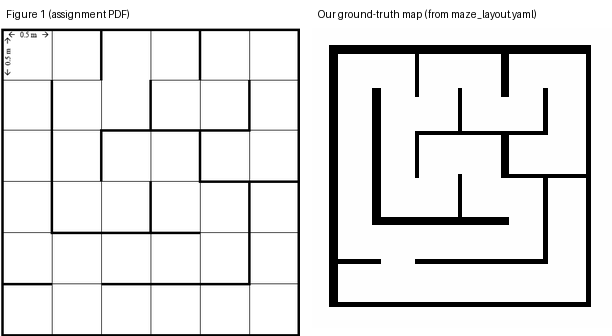
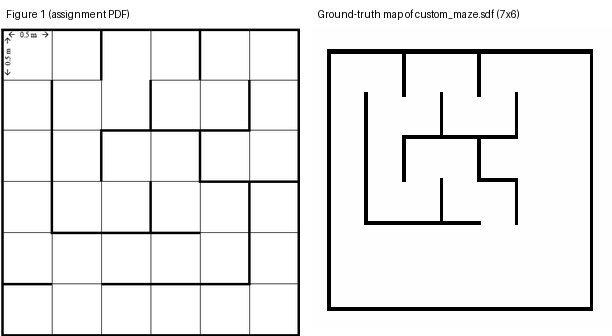
report: current-maze report with member names/IDs, regenerated figures, corrected numbers; PENDING markers for runs not yet done; member docs: names/IDs, spawn offset

Changed region(s): [[0.5278, 0.119, 0.9935, 0.9226], [0.5278, 0.0298, 0.9003, 0.0595]]

diff --git a/tools/make_report_figures.py b/tools/make_report_figures.py
@@ -37,10 +37,10 @@ def main():
     fig1 = Image.open(ROOT / "docs/figure1_from_assignment.png")
     side = 300
     row([panel(fig1, (side, round(side * fig1.height / fig1.width)), "Figure 1 (assignment PDF)", smooth=True),
-         panel(gt, (side, side), "Our ground-truth map (from custom_maze.sdf)")], OUT / "fig_maze.png")
+         panel(gt, (side, side), "Ground-truth map of custom_maze.sdf (7x6)")], OUT / "fig_maze.png")
     row([panel(gt, (side, side), "Ground truth"),
          panel(slam, (side, round(side * slam.height / slam.width)),
-               "SLAM Toolbox map, last VM run (FAIL)")], OUT / "fig_slam.png")
+               "SLAM Toolbox map, current maze (precision 0.819)")], OUT / "fig_slam.png")
     print("wrote", OUT / "fig_maze.png", OUT / "fig_slam.png")
 
 

diff --git a/docs/report.md b/docs/report.md
@@ -5,29 +5,27 @@
 | | |
 |---|---|
 | GitHub repository | https://github.com/AseshNemal/ros2-autonomous-maze-navigation (branch `dev-integration`) |
-| Group members / contributions | see the table below and `docs/OWNERSHIP.md` |
-| Environment | Ubuntu 24.04 (ARM64 VM, 4 CPUs, 3 GB RAM), ROS 2 Jazzy, Gazebo Harmonic, Nav2, SLAM Toolbox |
+| Environment | Ubuntu 24.04 (ARM64 VM), ROS 2 Jazzy, Gazebo Harmonic, Nav2, SLAM Toolbox |
 
-| Member (GitHub user) | Package | Contribution |
-|---|---|---|
-| Member 1 - JayangaWeerasinghe | `maze_simulation` | environment-versions document, test-map assets, optional prototype world `custom_maze` (3 commits on `main`) |
-| Member 2 - dhanushka403 | `slam_mapping` | partial prototype map `test_map` (1 commit, PR #1) |
-| Member 3 - RavinduYashas | `maze_navigation` | Nav2 parameters, launch file, RViz layout, goal evaluator (7 commits, PR #2) |
-| Member 4 - AseshNemal | `dqn_agent` | NumPy Double DQN, environment, training/evaluation/comparison, Stage-1 trial (2 commits, PR #3) |
-| Integration - AseshNemal (AI-assisted, labelled as such) | all four | Figure-1 maze generator and world, bridge/spawn, watchdog, SLAM tour and validation, Nav2 fixes, three-goal script, VM verification scripts, DQN maze adaptation |
+| Member | Student ID | Name | Package / responsibility |
+|---|---|---|---|
+| Member 1 | IT22273680 | Weerasinghe KGJP | `maze_simulation` - maze environment and simulation (`custom_maze.sdf`, `generate_maze.py`) |
+| Member 2 | IT23367562 | Lakshitha W G D | `slam_mapping` - mapping and localisation |
+| Member 3 | IT23185470 | Yashas S.P.R | `maze_navigation` - Nav2 navigation and evaluation |
+| Member 4 | IT23236264 | Nemal L A | `dqn_agent` - Deep Q-learning |
 
-Student names and IDs are to be added on the submitted cover page. Original teammate commits are preserved unmodified in the Git history; `docs/OWNERSHIP.md` separates them from the integration work.
+Integration work (launch wrapper and command watchdog, layout reader, SLAM tour and validation, Nav2 fixes, VM verification scripts, DQN adaptation to the maze) was done by Member 4's GitHub account with AI assistance, and is labelled as such in `docs/OWNERSHIP.md`, which also separates the original teammate commits from the integration commits.
 
-> **Honesty note.** Every number in this report comes from a recorded run in `docs/results/vm/` (current maze) or `docs/results/old_6x6_maze/` (previous maze, labelled) (command, date and log are in that folder). Where a requirement was not met, the report says so. Items marked **NOT MEASURED** have no data yet.
+> **Honesty note.** Numbers marked as measured come from recorded runs on the Ubuntu VM, stored in `docs/results/vm/` (current maze), `docs/results/old_6x6_maze/` (previous maze, labelled) or, for the offline analyses, `docs/cloud_checks/` (labelled as not Gazebo). Anything not yet run is marked **PENDING**. Where a requirement is not met, the report says so.
 
 ## 1. Introduction and system overview
 
-The robot is a TurtleBot3 Burger with a 360-beam LiDAR (3.5 m range, about 5 Hz in our VM). It must reach goals clicked in RViz inside the maze of Figure 1 of the brief, with minimal travel time and without collisions. The project has four ROS 2 packages, one per team member:
+The robot is a TurtleBot3 Burger with a 360-beam LiDAR (3.5 m range, about 5 Hz in our VM). It must reach goals clicked in RViz inside the maze, with minimal travel time and without collisions. Four ROS 2 packages, one per member:
 
 | Package | Role |
 |---|---|
-| `maze_simulation` | Gazebo world generated from the maze layout, TurtleBot3 spawn, `ros_gz_bridge`, dead-man command watchdog, verification scripts |
-| `slam_mapping` | SLAM Toolbox mapping, map saving, map validation against the layout, AMCL localisation, mapping driver |
+| `maze_simulation` | Gazebo world (`worlds/custom_maze.sdf`), TurtleBot3 spawn, `ros_gz_bridge`, dead-man `/cmd_vel` watchdog, layout reader `maze_tools.py`, verification scripts |
+| `slam_mapping` | SLAM Toolbox mapping, map saving, map validation against the world, AMCL localisation, coverage-tour mapping driver |
 | `maze_navigation` | Nav2 (NavFn A\* planner + Regulated Pure Pursuit controller), RViz configuration, three-goal metric script |
 | `dqn_agent` | Double DQN (NumPy), training, evaluation and comparison with Nav2 |
 
@@ -35,117 +33,73 @@ Nav2 and DQN are alternative controllers of the same robot; they are never run t
 
 ## 2. Maze design
 
-The maze layout is the Figure 1 approximation from the simulation team member (JayangaWeerasinghe, branch `main`, `generate_maze.py`): a 7 x 6 grid of 0.5 m cells (3.5 m x 3.0 m, outer walls x -0.5..3.0, y -0.5..2.5) with thin 0.01 m, 0.2 m high walls. The Gazebo world is main's `worlds/custom_maze.sdf`, used unmodified (world name `custom_maze`). `maze_tools.py` reads its walls and rasterises them into the ground-truth occupancy map and the path-planning graph; `config/mission.yaml` holds the start and goal cells. The bottom corridor is 1 m wide; the narrowest corridors are one cell (0.5 m) wide. The robot starts in the bottom corridor at main's spawn (0.25, 0.0); the three evaluation goals are cells (0,3), (3,3) and (3,0), with grid-optimal routes of 5.5 m, 3.0 m and 1.5 m. The earlier 6 x 6 layout (3 m x 3 m) used for the measurements in Section 4 was replaced by this one.
+The maze is the simulation member's Gazebo world `ros2_ws/src/maze_simulation/worlds/custom_maze.sdf` (generated by `generate_maze.py`; the SDF is the Gazebo world file for this submission, used unmodified, world name `custom_maze`): a 7 x 6 grid of 0.5 m cells (3.5 m x 3.0 m; outer walls x -0.5..3.0, y -0.5..2.5) with thin 0.01 m, 0.2 m high walls. The bottom corridor is 1 m wide and the narrowest corridors are one cell (0.5 m) wide. The robot spawns in the bottom corridor at (0.25, 0.0). The three evaluation goals are cells (0,3), (3,3) and (3,0), with grid routes of about 5.5 m, 3.0 m and 1.5 m (`config/mission.yaml`). `maze_tools.py` reads the walls from the SDF and rasterises them into the ground-truth occupancy map and the cell graph used for path references.
 
-Verification: the layout is read from `custom_maze.sdf` itself (`tools/verify_static.py`), the headless simulation loads it, and a raycast of the ground-truth map from the robot's true pose reproduces the real LiDAR scan with a mean range error of 0.05 m. Comparison with Figure 1 by eye should still be done by a human in the VIVA.
+![Figure 1 of the assignment (left) and the ground-truth map of our world (right)](figures/fig_maze.png)
 
-**Figure 1 comparison.** The assignment's Figure 1 is a 6 x 6 grid of 0.5 m cells (3 m x 3 m). Main's world is 7 columns x 6 rows (3.5 m x 3.0 m) with a different wall set, so it is an approximation of the figure and not an exact match; the earlier 6 x 6 layout (previous commits) was verified against the figure by `tools/check_figure1.py` (0 differences) but is no longer in the repository.
+**Figure 1 mismatch.** The assignment's Figure 1 is a 6 x 6 grid (3 m x 3 m). Our world is 7 columns x 6 rows with a different wall set (visible above), so it is an approximation of the figure and **not an exact match** (`tools/check_figure1.py` reports FIGURE1 MISMATCH). A 6 x 6 layout verified against the figure existed earlier in the Git history but was replaced by the team's agreed world.
 
-### 2.1 `custom_maze` world and launch files
-
-The repository's only world is `worlds/custom_maze.sdf`. `tools/demo.sh` starts it with main's own `custom_maze.launch.py` (spawn 0.25, 0.0); `maze_simulation.launch.py` loads the same world. The older generated `maze.world` was removed.
+**Map defect found and fixed during final checking.** The generated ground-truth map was missing the whole east outer wall (wall edges lie exactly on pixel edges, so float noise dropped it). It is fixed (deterministic tie-break in `maze_tools.write_map`), the map is regenerated, and a test (`slam_mapping/test/test_groundtruth_vs_sdf.py`) now compares the map with every wall of the SDF. The Nav2 results in C2 below were recorded **with the old map**; the re-run on the corrected map is **PENDING** (C2b).
 
 ## 3. Navigation method
 
-**Mapping and localisation.** SLAM Toolbox (asynchronous, loop closing disabled because the simulated odometry is clean and the self-similar 0.5 m corridors produced false loop closures) builds an occupancy grid. The mapping driver `tour_map_drive.py` drives through every cell along open corridors (a greedy nearest-unvisited tour over the cell graph, 48 waypoints, about 23.5 m, 0.12 m/s, slow in-place turns so consecutive 5 Hz scans overlap). The layout is used only to choose where to drive; the map itself comes from the LiDAR. AMCL localises on the saved map.
+**Mapping and localisation.** SLAM Toolbox (asynchronous, loop closing disabled because the self-similar 0.5 m corridors produced false loop closures; scan-matcher search window narrowed to 0.2 m) builds an occupancy grid. The mapping driver `tour_map_drive.py` drives through every cell along open corridors (a greedy nearest-unvisited tour over the cell graph, 56 waypoints in the current maze, 0.12 m/s, slow in-place turns so consecutive 5 Hz scans overlap). The layout is used only to choose where to drive; the map itself comes from the LiDAR. AMCL localises on the saved map.
 
-**Planning and control.** Nav2 plans with the NavFn planner in A\* mode on the global costmap (resolution 0.05 m, planning radius 0.08 m, inflation 0.25 m) and follows the path with the Regulated Pure Pursuit controller (0.15 m/s). Nav2 output passes through the velocity smoother and the collision monitor to a small node that converts `Twist` to the `TwistStamped` the Gazebo bridge expects. Goals are chosen with RViz's standard *Nav2 Goal* tool (`/goal_pose`).
+**Planning and control.** Nav2 plans with the NavFn planner in A\* mode on the global costmap (0.05 m resolution, inflation 0.25 m) and follows the path with the Regulated Pure Pursuit controller (0.15 m/s). Output passes through the velocity smoother and the collision monitor to a small node that converts `Twist` to the `TwistStamped` the Gazebo bridge expects. Goals are chosen with RViz's *Nav2 Goal* tool (`/goal_pose`). The global costmap uses a planning radius of 0.08 m, slightly below the Burger's 0.105 m, as a deliberate trade-off for the 0.5 m corridors; the local costmap (0.11 m) and the collision monitor cover the real footprint.
 
-**Machine learning.** A Double DQN (NumPy, 15-dimensional state: 12 LiDAR sectors plus goal distance and bearing, five discrete actions, dense progress reward, collision penalty) is trained in the same Gazebo world and evaluated greedily on the same three start-goal pairs as Nav2.
+**Machine learning.** A Double DQN (NumPy: replay buffer, target network, epsilon-greedy, Huber loss; 15-dimensional state of 12 LiDAR sectors plus goal distance and bearing; five discrete actions; dense progress reward with collision and goal terms) is trained in the same Gazebo world and evaluated greedily on the same three start-goal pairs as Nav2.
 
 ## 4. Results
 
-### Results on the CURRENT maze (`custom_maze.sdf`, 7 x 6, spawn (0.25, 0.0)) - measured 2026-10-17
+### 4.1 Current maze (`custom_maze.sdf`, 7 x 6) - measured on the VM, 2026-10-17
 
-All numbers below come from the logs in `docs/results/vm/`. Subsections 4.1 to 4.6 further down were measured on the **previous 6 x 6 maze**, which has been removed; they are kept as history and are labelled as such.
+**C1. Simulation and control** (`sim_20261017-101901`, `control_20261017-102106`). Headless simulation: 10 of 10 checks passed (world `custom_maze`, exactly one robot `burger`, `/scan` 5.0 Hz, `/odom` 49.6 Hz, `/clock`, TF, `/cmd_vel` is `TwistStamped`). Control: 22 of 22 on the rerun (teleop forward +0.46 m, backward -0.31 m, left +1.02 rad, right -1.02 rad, stop; the watchdog leaves the robot at 0.000 m/s after teleop is killed mid-motion; a Nav2 goal reached in 6 s; only the Nav2 chain publishes `/cmd_vel`). The first run passed 21 of 22 (`/scan` message count 2 in the first 3 s after start-up); the rerun without code changes counted 15.
 
-**C1. Simulation and control.** Headless simulation: 10 of 10 checks passed (world `custom_maze`, exactly one robot `burger`, `/scan` 5.0 Hz with frame `base_scan`, `/odom` 49.6 Hz, `/clock`, TF `odom -> base_footprint`, `/cmd_vel` is `TwistStamped`). Control: 22 of 22 checks passed on the rerun (teleop forward +0.46 m, backward -0.32 m, left +1.03 rad, right -1.04 rad, stop, the watchdog stops the robot 0.000 m/s after teleop is killed mid-motion, a Nav2 goal reached in 6 s, only the Nav2 chain publishes `/cmd_vel`); the first run passed 21 of 22 (the `/scan` message count was 2 in the first 3 s after start-up; the rerun without code changes counted 15).
+**C2. Nav2 three-goal test** (`nav2_results_20261017-113157.csv`; NavFn A\* + Regulated Pure Pursuit, ground-truth map **before the east-wall fix**, robot reset to the spawn before each goal):
 
-**C2. Nav2 three-goal test** (`nav2_results_20261017-113157.csv`; NavFn A* + Regulated Pure Pursuit, ground-truth map, robot reset to the spawn before each goal):
-
-| Goal (world x, y) | Outcome | Time (sim s) | Travelled (m) | Recoveries | Cell-count reference (m) | Reference / travelled |
+| Goal (world x, y) | Outcome | Time (sim s) | Travelled (m) | Mean speed (m/s) | Recoveries | Cell-count reference (m) |
 |---|---|---|---|---|---|---|
-| 1 (1.25, 2.25) | SUCCEEDED | 39.45 | 5.53 | 0 | 5.5 | 0.99 |
-| 2 (1.25, 0.75) | SUCCEEDED | 16.53 | 2.29 | 1 | 3.0 | 1.31 |
-| 3 (-0.25, 0.75) | SUCCEEDED | 10.30 | 0.88 | 0 | 1.5 | 1.71 |
+| 1 (1.25, 2.25) | SUCCEEDED | 39.45 | 5.53 | 0.14 | 0 | 5.5 |
+| 2 (1.25, 0.75) | SUCCEEDED | 16.53 | 2.29 | 0.14 | 1 | 3.0 |
+| 3 (-0.25, 0.75) | SUCCEEDED | 10.30 | 0.88 | 0.09 | 0 | 1.5 |
 
-3 of 3 goals reached. The reference is a cell-count estimate (0.5 m per cell from the cell graph), not a true shortest path, and the robot starts at the spawn rather than a cell centre, so ratios above 1 do not mean the robot was more efficient than optimal. The same goals were also sent from the command line (`tools/send_goal.sh`): both tested goals succeeded (10.3 s and 26.1 s).
+3 of 3 goals reached. The reference is a cell-count estimate, not a true shortest path, and the robot starts at the spawn rather than a cell centre, so the reference can exceed the distance travelled and path efficiency is only indicative; the robot also stops up to about 0.25 m from the goal (goal tolerance). Four consecutive goals without resetting the robot in between also succeeded (G1, G2, G3, G1: 38.9, 26.2, 23.5, 24.8 s, 0 recoveries; `nav2_consecutive_goals_no_reset_20261017.txt`). The same goals sent from the command line (`tools/send_goal.sh`) succeeded (10.3 s and 26.1 s). Sending a wrong *2D Pose Estimate* in RViz left AMCL several metres from the true pose (`reset_robot_wrong_pose_estimate_20261017.txt`); `tools/reset_robot.sh` restores both, so clicking *2D Pose Estimate* must be avoided at the VIVA.
 
-**C3. SLAM** (coverage tour + `slam_toolbox`, validated with `validate_map.py` against the maze read from `custom_maze.sdf`):
+**C2b. Nav2 on the corrected map: PENDING** (not yet run at the time of writing; to be filled in from `docs/results/vm/`).
 
-| Run | Coverage | Precision | Free cells OK | Unknown | Against our own thresholds (0.85 / 0.85 / 0.95) |
+**C3. SLAM** (coverage tour + `slam_toolbox`, validated by `validate_map.py` against the world; our own thresholds 0.85 / 0.85 / 0.95):
+
+| Run | Coverage | Precision | Free cells OK | Unknown | Result |
 |---|---|---|---|---|---|
 | 1, odometry-steered tour | 0.890 | 0.256 | 0.905 | 0.367 | FAIL |
 | 2, tour steered by the SLAM pose, side-wall centring | 0.971 | **0.819** | 1.000 | 0.083 | FAIL (precision 0.031 short; coverage and free-cell checks pass) |
 
-The assignment only asks to "use SLAM to map the environment"; the 0.85 thresholds are our own validation criteria, so run 2 is reported as a map of the maze with the recorded accuracy and not as a threshold pass. Diagnosis (`tour_odom_vs_truth_*.txt`): in run 1 the robot touched walls in 189 of 371 ground-truth samples, so odometry diverged from Gazebo truth and smeared the map. Navigation was **not** run on the SLAM-built map.
+![Ground truth (left) and the SLAM Toolbox map of run 2 (right)](figures/fig_slam.png)
 
-**C4. DQN.** Not trained on the current maze. A 3-episode smoke test (40 s) showed that the training loop, the `burger` reset, the CSV log and the checkpoint work; all 3 episodes ended in collisions, the checkpoint had zero optimizer updates and `evaluate_dqn` correctly refused it. There is **no DQN training or evaluation result and no evidence of learning on the current maze**. The only DQN results (old 6 x 6 maze, Section 4.5) are 0 successes in 50 episodes and 0 of 9 greedy evaluations.
+The brief only asks to "use SLAM to map the environment"; the 0.85 thresholds are our own, so run 2 is reported as a recognisable map with the recorded accuracy, not as a threshold pass. In run 1 the robot touched walls in 189 of 371 ground-truth samples, so odometry diverged from Gazebo truth and smeared the map (`tour_odom_vs_truth_before_fix_*.txt`); after the tour fix a smoke test still touched walls in 74 of 333 samples (`tour_odom_vs_truth_after_fix_smoke_*.txt`). Navigation was **not** run on the SLAM-built map.
 
-**C5. Comparison.** Nav2 reached 3 of 3 goals; the DQN reached 0 (old maze) and has no current-maze data, so no DQN-vs-Nav2 efficiency comparison on the current maze can be claimed.
+**C4. DQN.** Unit tests pass (18 of 18, including the fixes below). Before the fixes, a 3-episode smoke test on the current maze (`dqn_train_none_20261017-115922.csv`) ended in three collisions with zero optimizer updates, and `evaluate_dqn` refused the checkpoint. A code audit found why learning was nearly impossible: the near-wall penalty (-0.4 when the nearest wall is closer than 0.30 m) fired on every step in a 0.5 m corridor (side walls are about 0.245 m away), making early collision (-40) almost as good as surviving; a step-limit truncation was stored as a terminal state; a checkpoint resume reset epsilon and the hyperparameters; and the first state after the reset teleport could come from a scan taken before it. These are fixed and covered by tests. **DQN training and evaluation after the fixes: PENDING** (a short smoke run first, then one bounded 50-100 episode run; to be filled in from `docs/results/vm/`). Until that is recorded there is **no DQN result and no evidence of learning on the current maze**.
 
-**C6. Figure 1 compliance risk.** The assignment's Figure 1 is 6 x 6; the maze used is the teammate's 7 x 6 approximation, so it is not an exact reproduction of the figure.
+**C5. Comparison.** Nav2 reached 3 of 3 goals on the current maze. No DQN-versus-Nav2 efficiency comparison on the current maze can be claimed until C4 has data.
 
-### Historical results on the previous 6 x 6 maze (not valid for the current maze)
+### 4.2 Previous 6 x 6 maze (history, not valid for the current maze; details in `docs/results/old_6x6_maze/`)
 
-### 4.1 (old 6 x 6 maze) Simulation interface (headless, `verify_on_vm.sh sim`)
-7 of 7 checks passed: `/scan`, `/odom`, `/clock`, frames, `odom -> base_footprint` TF, `/cmd_vel` is `TwistStamped`. LiDAR about 4.4 Hz, odometry about 43 Hz.
+On the earlier 6 x 6 layout (since removed) the same pipeline gave: Nav2 3 of 3 goals (44.5, 14.6 and 20.3 s) after fixing a launch-argument error and replacing the MPPI controller; SLAM precision 0.759 / 0.577 for the coverage tour (FAIL); a watchdog that fixed a real safety defect (after teleop was killed the robot kept driving at 0.15 m/s, 0.39 m in 2.5 s; with the watchdog 0.000 m/s, control 22/22); and a pure DQN with 0 successes in 50 episodes and 0 of 9 greedy evaluations (595 optimizer updates, epsilon still 0.967). An offline kinematic surrogate (`docs/cloud_checks/`, **not Gazebo**) suggested that a hybrid agent with A\* waypoints can reach goals while a pure DQN stays at 0 of 30; this has not been confirmed in Gazebo.
 
-### 4.2 (old 6 x 6 maze) Nav2 three-goal test (`nav2_results_20261016-214253.csv`, ground-truth map, robot reset to the start before each goal)
-
-| Goal (world x, y) | Outcome | Time (sim s) | Travelled (m) | Recoveries | Reference (m) | Reference / travelled |
-|---|---|---|---|---|---|---|
-| 1 (1.25, 1.25) | SUCCEEDED | 44.52 | 5.97 | 0 | 8.0 | 1.34 |
-| 2 (-1.25, 0.25) | SUCCEEDED | 14.63 | 1.93 | 0 | 2.5 | 1.30 |
-| 3 (0.25, -0.25) | SUCCEEDED | 20.34 | 2.78 | 0 | 3.5 | 1.26 |
-
-3 of 3 goals reached, no recoveries. The "reference" is a cell-count estimate (0.5 m per cell), not a true lower bound, so the ratio exceeds 1; the planner's own path for goal 1 was 6.9 m. (This CSV's method label still reads `nav2_navfn_astar_mppi` because it was recorded before the controller was relabelled; the controller was Regulated Pure Pursuit.)
-
-Earlier runs, kept in `docs/results/old_6x6_maze/`, document the path to this result: 0 of 3 (Nav2 never started: lowercase `"false"` passed to Nav2's launch file), then 0 of 3 and 2 of 3 with the MPPI controller (zero velocity output in 0.45 m corridors; start pose inside inflated cells).
-
-### 4.3 (old 6 x 6 maze) SLAM map (`validate_map.py`, thresholds: coverage >= 0.85, precision >= 0.85, free cells correct >= 0.95)
-
-| Run | Coverage | Precision | Free OK | Result |
-|---|---|---|---|---|
-| Wall follower, loop closing on (stale processes interfering) | 0.586 | 0.356 | 1.0 | FAIL |
-| Wall follower, loop closing off | 0.760 | 0.647 | 0.889 | FAIL |
-| Wall follower, slower, side-by-side phases | 0.518 | 0.821 | 1.0 | FAIL |
-| Coverage tour, creeping bug (hit the 15 min limit, tour incomplete) | 0.669 | 0.708 | 0.944 | FAIL |
-| Coverage tour, creeping bug fixed (tour completes, 47/47 waypoints, about 5 min) | 0.759 | 0.577 | 0.944 | **FAIL** |
-
-One further run was discarded: its saved map came from a stray Nav2 map server, not SLAM (identical to the ground-truth map); the script now refuses to save unless `slam_toolbox` is the only `/map` publisher.
-
-![Ground truth (left) and the SLAM Toolbox map of the last recorded VM run (right)](figures/fig_slam.png)
-
-**The SLAM map does not meet our own validation thresholds.** The map has the right size and recognisable structure, but walls are smeared (precision) and about a quarter of the wall length is not scanned. Navigation therefore uses the ground-truth map in the test above; navigation on the SLAM map was not demonstrated.
-
-*Diagnosis from the saved map (offline, `docs/cloud_analysis.md`).* Re-validating the committed map reproduces the 0.759 / 0.577 above. It is distorted, not merely offset: the best rigid re-alignment only reaches precision 0.598, and only 20 % of line-like wall pixels are within 5 degrees of a maze axis (77 % for the ground-truth map): the heading was lost part-way through the tour. A simulated perfect-pose LiDAR map of the same tour passes (1.0 / 1.0), so the tour and the validator are not the limit; the validator tolerates only about 0.2 degrees of uncorrected heading drift per metre. Odometry was accurate in the control test (yaw within 0.04 rad per turn). The most likely cause is the scan-matcher search window (+-0.5 m, +-20 degrees), far larger than the odometry error in 0.45 m self-similar corridors. We narrowed it to 0.2 m and 10 degrees; **this change has not been run in Gazebo yet**, so the table above is unchanged and the SLAM requirement is still unmet.
-
-### 4.4 (old 6 x 6 maze) Remote / manual control (`verify_on_vm.sh control`, `check_control.py`)
-Real `teleop_twist_keyboard` driven through a pseudo-terminal; robot motion compared between `/odom` and Gazebo's ground truth. First run: 21 of 22 checks passed (spawn, `/odom`, `/scan`, TF, message type, bridge, forward +0.46 m, backward -0.32 m, left +1.01 rad, right -1.03 rad, stop, Nav2 goal reached in 21 s, only the Nav2 chain publishing during Nav2, real-time factor 1.00). The one failure was a genuine safety defect: after teleop was killed mid-motion, Gazebo kept executing the last command (0.15 m/s, 0.39 m in 2.5 s). A command watchdog (`cmd_vel_watchdog.py`) was added; see Section 4.6 for its re-test.
-
-### 4.5 (old 6 x 6 maze) DQN (`dqn_train_20261017-000035.csv`, `dqn_eval_20261017-000035.csv`; 5-episode timing run `dqn_train_20261016-235928.csv`)
-Unit tests pass (11 of 11). Timing test: 5 episodes lasted about 5 s of simulated time each (collision after 6 to 16 steps), roughly 4 to 6 s of wall time per episode, so training cost was measured rather than assumed. Real training: **50 episodes, 595 optimizer updates, pure DQN (no guidance)**: 0 successes, 50 collisions, mean 13.9 steps and 5.5 simulated seconds per episode, mean reward -45.9, epsilon still 0.967 at the end (exploration had barely started to decay). Greedy evaluation on the three Nav2 goals, 3 trials each: **0 of 9 reached the goal**; every trial ended in a collision after 6 to 8 steps. **The DQN did not learn to navigate the maze in 50 episodes.** This is expected for so little training (an earlier trial also reached 0 of 3), and longer training was not attempted: it is not evidence either way about the method with more training. The comparison with Nav2 is therefore Nav2 3/3 against DQN 0/9.
-
-*Diagnosis without Gazebo (offline, `docs/cloud_analysis.md`).* The 50 episodes made only about 700 environment steps because each ended in a collision, so epsilon (decayed over 20 000 steps) never left random exploration. A kinematic surrogate of the environment (real agent and reward, ray-cast LiDAR on the real maze, no Gazebo) reproduces this run (0 successes). The surrogate also exposed a defect in the hybrid (waypoint) mode: the waypoint switched 0.25 m from a cell centre, i.e. on entering the 0.5 m cell, so each turn cut into the corner (success 92 % for one-cell paths, 29 % for two, 14 % for three). We changed the tolerance to 0.15 m and the epsilon decay to 3000 steps. On the surrogate this gives 20 of 30 greedy trials on the three assignment goals for the hybrid agent, while a pure DQN, which sees only local LiDAR and a straight-line bearing, stays at 0 of 30. **These are surrogate numbers, not Gazebo results**; the new settings have not been run in Gazebo and the table above is unchanged. A DQN that reaches goals only with A\* waypoints is a hybrid and will be reported as one.
-
-### 4.6 (old 6 x 6 maze) Watchdog re-test (`control_teleop_20261016-235730.json`, `control_nav_20261016-235730.json`)
-After adding the watchdog: **22 of 22 checks passed** (teleop 16/16, Nav2 6/6). Killing teleop mid-motion now leaves the robot at 0.000 m/s with 0.00 m moved in the following 2.5 s (before: 0.15 m/s, 0.39 m). The Nav2 goal was reached in 13 s. Not verifiable by script: remote-desktop input delay and disconnections; the simulation itself ran at a real-time factor of 1.00 (headless).
-
-## 5. Challenges faced (all from real runs)
-1. **Nav2 would not start.** Nav2's launch file evaluates arguments as Python; the lowercase `"false"` raised a NameError.
-2. **Leaked processes.** A previous stage's `ros_gz_bridge` kept republishing `/clock`, `/tf` and `/scan` into the next simulation: 58 clock-jump warnings, TF extrapolation errors and dropped scans. After fixing the cleanup: 0, 0 and 0.
-3. **Controller stalls.** MPPI produced zero velocity in 0.45 m corridors; Regulated Pure Pursuit and a smaller planning footprint fixed it.
-4. **Verification scripts hid failures.** Stages printed "finished" after failed validation; they now report `STAGE RESULT: PASS|FAIL` and exit non-zero.
-5. **Wall following cannot map interior wall islands**, and a safety rule tripped on minimum-range LiDAR returns, making the robot creep; replaced by the coverage tour with that fix.
-6. **GUI configuration.** RViz used an unmodified generic Nav2 layout centred 5 m away from the maze and a custom Gazebo GUI block; both replaced by standard configurations (`docs/gui_review.md`).
-7. **Small VM.** Concurrent Gazebo, Nav2 and RViz on 3 GB RAM; Nav2's 4 s lifecycle heartbeat shut navigation down, so it was raised to 30 s.
+## 5. Challenges faced (from real runs)
+1. **Odometry drift smeared the SLAM map** when the tour brushed walls (189 of 371 samples within 0.115 m of a wall); reduced by steering the tour with the SLAM pose and centring on side walls (precision 0.256 to 0.819), but wall contact is not eliminated.
+2. **Pose mismatch between RViz and Gazebo.** A wrong *2D Pose Estimate* put AMCL several metres from the robot and the next goal failed; `tools/reset_robot.sh` resets both.
+3. **`ros2 action` was not available** in the VM, so command-line goals use an `rclpy` action client (`tools/send_goal.py`).
+4. **Leaked processes** from a previous stage kept republishing `/clock`, `/tf` and `/scan` into the next simulation (58 clock-jump warnings, TF errors); cleanup fixed in the verification scripts.
+5. **Controller stalls** (earlier maze): MPPI produced zero velocity in 0.45 m corridors; Regulated Pure Pursuit fixed it.
+6. **Silent map defect and reward defect** found only by the final audit (east wall missing from the ground-truth map; always-on near-wall penalty in the DQN reward), both now fixed with tests.
+7. **Small VM.** Concurrent Gazebo, Nav2 and RViz on a small VM at about 5 Hz LiDAR; Nav2's lifecycle heartbeat was raised to 30 s.
 
 ## 6. Limitations
-The maze is a 7 x 6 approximation, not the 6 x 6 Figure 1. The SLAM map (precision 0.819) is below our own 0.85 threshold and the tour still touches walls at times; Nav2 was tested only on the ground-truth map, from reset spawn poses, in one run of three goals (plus two command-line goals); the DQN has no result on the current maze and showed no learning on the old one; the efficiency reference is a cell-count estimate; the LiDAR rate is about 5 Hz on a small VM; collisions are detected from LiDAR range, not a contact sensor; the RViz click-a-goal interaction was demonstrated on the old maze and by command line on the current one, not re-run by script. Sections 4.1-4.6 are from the removed 6 x 6 maze.
+The maze is a 7 x 6 approximation, not the 6 x 6 Figure 1. The SLAM map (precision 0.819) is below our own 0.85 threshold. Nav2 was tested only on the ground-truth map and, for the table above, on the map before the east-wall fix (C2b pending). The DQN has no result on the current maze yet and showed no learning on the old one. The efficiency reference is a cell-count estimate. The RViz click-a-goal interaction was not re-run by script on the current maze (command-line goals were). Collisions are detected from LiDAR range, not a contact sensor.
 
 ## 7. Possible improvements
-SLAM accuracy (tune scan-matching parameters, slower motion, re-enable loop closure with stricter thresholds, evaluate with a real exploration algorithm such as frontier exploration); navigate on the SLAM map instead of the ground-truth map; measure path efficiency against the planner's path rather than a cell-count estimate; longer and randomised DQN training, LiDAR history in the state, PyTorch with prioritised replay; a contact sensor for collision counting; automated cross-checking of the maze against Figure 1.
+Tune SLAM scan matching and re-enable loop closure with stricter thresholds; navigate on the SLAM map instead of the ground-truth map; measure path efficiency against the planner's own path; longer and randomised DQN training, LiDAR history in the state, PyTorch with prioritised replay; ground-truth or SLAM pose instead of odometry for the DQN; a contact sensor for collision counting; an exact Figure 1 maze.
 
 ## 8. How to reproduce
-Live demo: `bash tools/demo.sh` (click **Nav2 Goal**), or without the mouse `bash tools/send_goal.sh G1` / `G2` / `G3` and `bash tools/drive.sh forward 2`. Tests: `bash tools/verify_on_vm.sh <build|sim|control|slam|nav|dqn>` (add `QUICK=1` for a smoke test), `STAGES="sim nav" bash tools/run_all.sh`, `python3 tools/verify_static.py`. Details in `README.md` and `docs/testing.md`.
+Live demo: `bash tools/auto.sh` (Gazebo + RViz + Nav2; click **Nav2 Goal**), or without the mouse `bash tools/send_goal.sh G1` / `G2` / `G3`; keyboard driving: `bash tools/manual.sh`. Tests: `python3 tools/verify_static.py`, `bash tools/verify_on_vm.sh <build|sim|control|slam|nav|dqn>` (`QUICK=1` for a smoke test). Details in `README.md` and `docs/testing.md`.

diff --git a/docs/members/member_2.md b/docs/members/member_2.md
@@ -1,7 +1,9 @@
 # Member 2 - SLAM and Mapping (`slam_mapping`)
 
+**Lakshitha W G D** - IT23367562 - Mapping and Localization
+
 Status key: **VERIFIED** (actually run and passed) · **IMPLEMENTED** (code exists, runtime check pending) · **FAILED** · **BLOCKED** · **NOT IMPLEMENTED**.
-No Gazebo/Nav2/SLAM/DQN runtime test has been run from this branch yet; only the static checks in `tools/verify_static.py` (Mac) have. See [testing.md](../testing.md).
+Runtime results on the current maze (Ubuntu VM): see [testing.md](../testing.md) and `docs/results/vm/`; the earlier "no runtime test yet" note no longer applies.
 
 ## Responsibility
 SLAM Toolbox mapping, occupancy grid generation, map save/load, localization (AMCL), map validation against the maze.
@@ -28,7 +30,7 @@ SLAM Toolbox mapping, occupancy grid generation, map save/load, localization (AM
 
 ## Architecture
 `/scan + /odom TF` -> `slam_toolbox` (scan matching, pose graph) -> `/map` + `map->odom` TF -> `map_saver_cli` -> `.pgm/.yaml` -> `map_server` + `amcl` (particle filter, likelihood field) -> `map->odom`.
-The SLAM map frame origin is the robot's spawn pose, so a SLAM map is offset from world coordinates by (0.25,-0.25); the validator, `set_initial_pose.py` and `run_three_goals.py --map-source slam` all account for this (assumes spawn yaw 0).
+The SLAM map frame origin is the robot's spawn pose, so a SLAM map is offset from world coordinates by (0.25, 0.0); the validator, `set_initial_pose.py` and `run_three_goals.py --map-source slam` all account for this (assumes spawn yaw 0).
 
 ## Topics
 Subscribes `/scan`, `/tf`, `/odom` (via TF); publishes `/map`, `/map_metadata`, `map->odom` TF; AMCL publishes `/amcl_pose`, subscribes `/initialpose`.
@@ -39,7 +41,7 @@ ros2 launch maze_simulation maze_simulation.launch.py gui:=false
 ros2 launch slam_mapping mapping.launch.py
 ros2 run slam_mapping auto_map_drive.py --duration 420     # or: ros2 run teleop_twist_keyboard teleop_twist_keyboard --ros-args -p stamped:=true
 export MAZE_REPO=$PWD; ros2 run slam_mapping save_map.sh maze_slam
-python3 ros2_ws/src/slam_mapping/scripts/validate_map.py ros2_ws/src/slam_mapping/maps/maze_slam.yaml --map-origin-in-world 0.25 -0.25
+python3 ros2_ws/src/slam_mapping/scripts/validate_map.py ros2_ws/src/slam_mapping/maps/maze_slam.yaml --map-origin-in-world 0.25 0.0
 ros2 launch slam_mapping localization.launch.py map:=$PWD/ros2_ws/src/slam_mapping/maps/maze_slam.yaml initial_x:=0.0 initial_y:=0.0
 ```
 Or staged: `tools/verify_on_vm.sh slam`.

diff --git a/docs/members/member_3.md b/docs/members/member_3.md
@@ -1,7 +1,9 @@
 # Member 3 - Autonomous Navigation (`maze_navigation`)
 
+**Yashas S.P.R** - IT23185470 - Nav2 Navigation and Evaluation
+
 Status key: **VERIFIED** (actually run and passed) · **IMPLEMENTED** (code exists, runtime check pending) · **FAILED** · **BLOCKED** · **NOT IMPLEMENTED**.
-No Gazebo/Nav2/SLAM/DQN runtime test has been run from this branch yet; only the static checks in `tools/verify_static.py` (Mac) have. See [testing.md](../testing.md).
+Runtime results on the current maze (Ubuntu VM): see [testing.md](../testing.md) and `docs/results/vm/`; the earlier "no runtime test yet" note no longer applies.
 
 ## Responsibility
 Nav2 integration, A* global planning, costmaps, local obstacle avoidance, RViz goal clicking, three-goal evaluation with metrics.

diff --git a/docs/members/member_4.md b/docs/members/member_4.md
@@ -1,7 +1,9 @@
 # Member 4 - Deep Q-Learning (`dqn_agent`)
 
+**Nemal L A** - IT23236264 - Deep Q-Learning
+
 Status key: **VERIFIED** (actually run and passed) · **IMPLEMENTED** (code exists, runtime check pending) · **FAILED** · **BLOCKED** · **NOT IMPLEMENTED**.
-No Gazebo/Nav2/SLAM/DQN runtime test has been run from this branch yet; only the static checks in `tools/verify_static.py` (Mac) have. See [testing.md](../testing.md).
+Runtime results on the current maze (Ubuntu VM): see [testing.md](../testing.md) and `docs/results/vm/`; the earlier "no runtime test yet" note no longer applies.
 
 ## Responsibility
 DQN navigation: state, actions, reward, Q/target networks, replay, epsilon-greedy, Double DQN, checkpoints, training/evaluation, DQN-vs-Nav2 comparison.

diff --git a/docs/members/member_1.md b/docs/members/member_1.md
@@ -1,5 +1,7 @@
 # Member 1 - Gazebo Simulation (`maze_simulation`)
 
+**Weerasinghe KGJP** - IT22273680 - Maze Environment and Simulation
+
 Status key: **VERIFIED** (actually run and passed) · **IMPLEMENTED** (code exists, runtime check pending) · **FAILED** · **BLOCKED** · **NOT IMPLEMENTED**.
 Runtime status on the current maze (`custom_maze.sdf`): see [testing.md](../testing.md) and `docs/results/vm/`.
 
